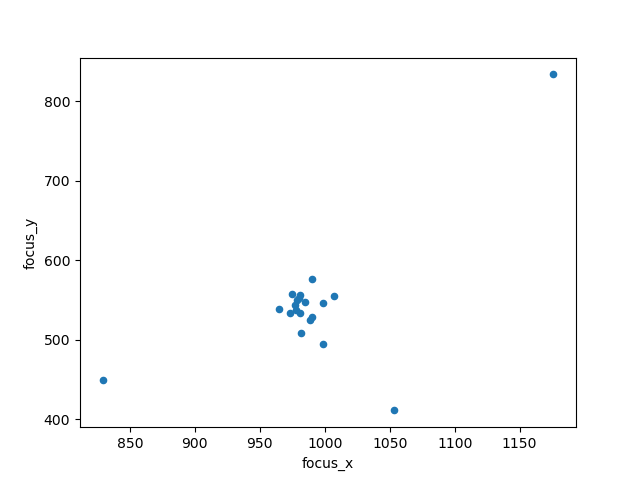
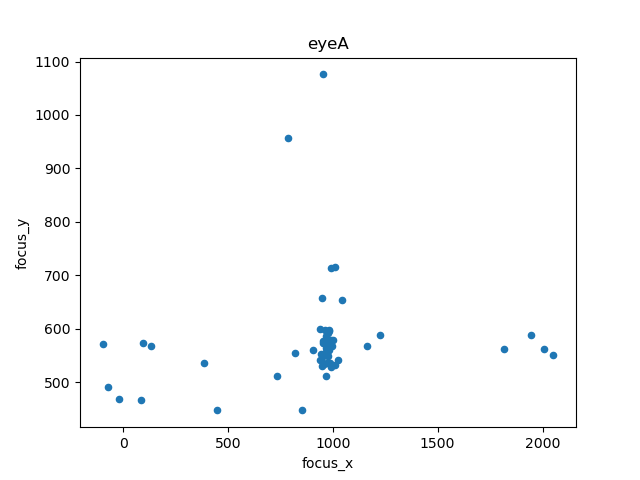
古寺

diff --git a/cgi-bin/feedback.py b/cgi-bin/feedback.py
@@ -18,37 +18,64 @@ print("</head>")
 print("<body>")
 print("<h1>運転結果</h1>");
 
-# CSVデータのHTML出力
-print("<h2>100～119番目のレコード</h2>")
-place_A = log[100:120]
-print(place_A.to_html())
+# place_Aスピードのデータ分析
+place_A = log[(log.x >=6907) &(log.x <=7021)]
+speed_A = place_A.loc[:, ["speed"]]
+a= speed_A.mean() #speed平均値
+print(a)
+print("<br>")
+
+#place_A視線平均
+e_A = place_A.loc[:, ["focus"]]
+print(e_A.mean())
 
 # place_Aの視線データの抽出
 eye_A = place_A.loc[:, ["focus_x", "focus_y"]]
 plt.figure()
 eye_A.plot.scatter(x="focus_x", y="focus_y")
+plt.title('eyeA')
 plt.savefig("fig/graph_A.png")
 plt.close("all")
 
-# place_Aのグラフを出力
-print("<div style='text-align:center'>")
-print("<img src=" + "'../fig/graph_A.png'" + " >")
-print("</div>")
+# plase_Aのスピードデータ抽出
+spe_A = place_A.loc[:, ["x", "speed"]]
+plt.figure()
+spe_A.plot(x="x", y="speed")
+plt.title('speedA')
+plt.savefig("fig/graph_A1.png")
+plt.close("all")
 
-print("<h2>X座標が7300以上かつ7350以下のレコード</h2>")
-place_B = log[(log.x >= 7300) & (log.x <= 7350)]
-print(place_B.to_html())
 
 # place_Bの視線データの抽出
+place_B = log[(log.x >= 7071) & (log.x <= 7250)]
 eye_B = place_B.loc[:, ["focus_x", "focus_y"]]
 plt.figure()
 eye_B.plot.scatter(x="focus_x", y="focus_y")
+plt.title('eyeB')
 plt.savefig("fig/graph_B.png")
 plt.close("all")
 
+#データの出力
+print(log.to_html())
+
+
+# place_Aのグラフを出力
+print("<div style='position:relative;top:-23600px;left:1000px;'>")
+print("<h2>一つ目の交差点</h2>")
+print("<table>")
+print("<tr>")
+print("<td><img src=" + "'../fig/graph_A.png'" + " ></td>")
+print("<td><img src=" + "'../fig/graph_A1.png'" + " ></td>")
+print("</tr>")
+print("</table>")
+
 # place_Bのグラフを出力
-print("<div style='text-align:center'>")
-print("<img src=" + "'../fig/graph_B.png'" + " >")
+print("<table>")
+print("<h2>二つ目の交差点</h2>")
+print("<tr>")
+print("<td><img src=" + "'../fig/graph_B.png'" + " width='700' height='500' ></td>")
+print("</tr>")
+print("</table>")
 print("</div>")
 
 print("</body>")
